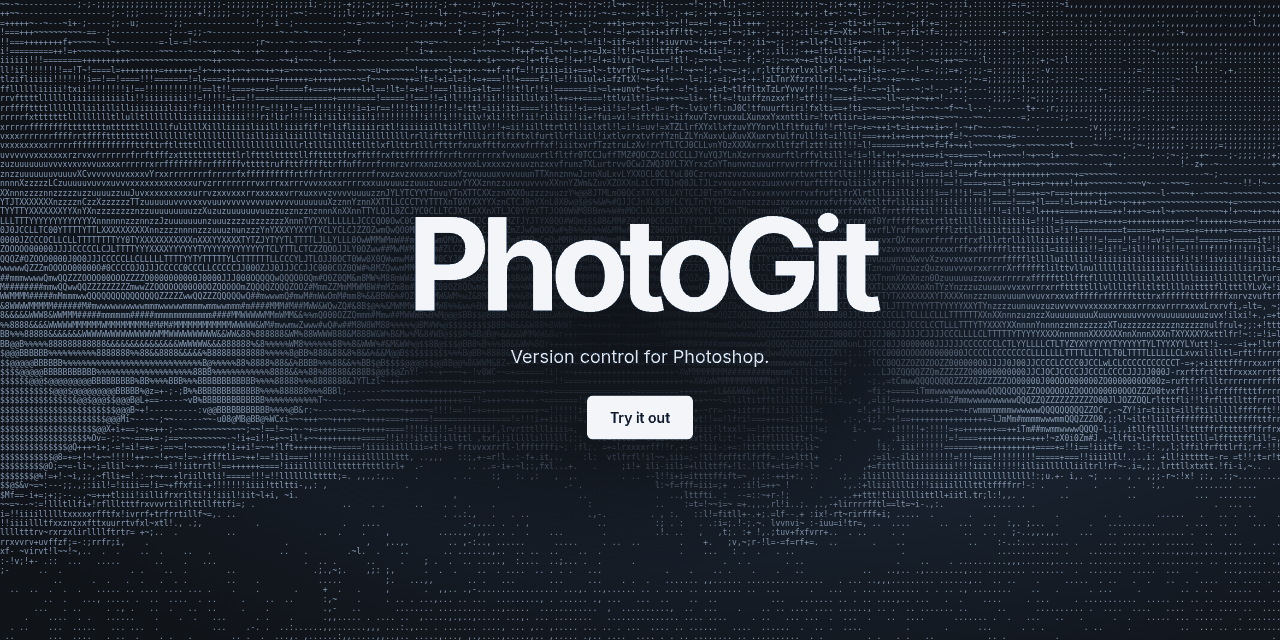
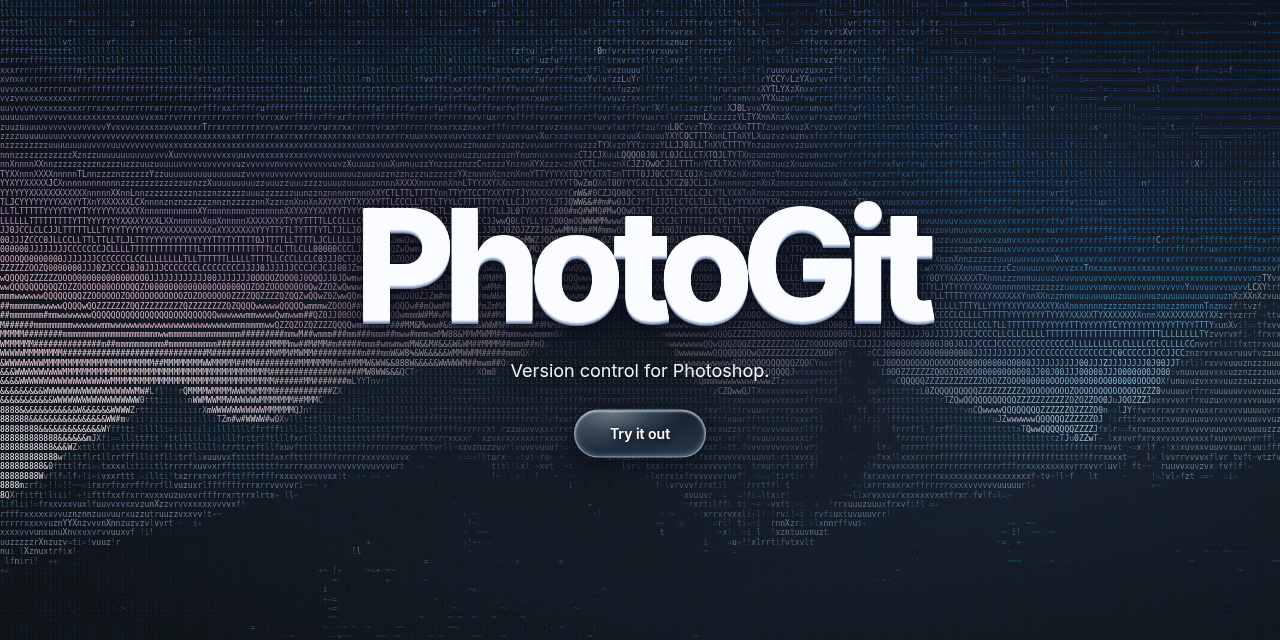
Bring color and 3D interactions to the ASCII landing page

diff --git a/site/ascii-background.js b/site/ascii-background.js
@@ -1,6 +1,34 @@
 (() => {
   const background = document.querySelector('.ascii-background');
   const toggle = document.querySelector('.ascii-toggle');
+  const wordmark = document.querySelector('.wordmark');
+  const tryLink = document.querySelector('.try-link');
+  const reducedMotion = matchMedia('(prefers-reduced-motion: reduce)');
+
+  const resetTilt = () => {
+    wordmark.style.removeProperty('--tilt-x');
+    wordmark.style.removeProperty('--tilt-y');
+  };
+  wordmark.addEventListener('pointermove', ({ clientX, clientY, pointerType }) => {
+    if (pointerType === 'touch' || reducedMotion.matches) return;
+    const { left, top, width, height } = wordmark.getBoundingClientRect();
+    const x = (clientX - left) / width - 0.5;
+    const y = (clientY - top) / height - 0.5;
+    wordmark.style.setProperty('--tilt-x', `${-y * 44}deg`);
+    wordmark.style.setProperty('--tilt-y', `${x * 60}deg`);
+  });
+  wordmark.addEventListener('pointerleave', resetTilt);
+  wordmark.addEventListener('pointercancel', resetTilt);
+  window.addEventListener('blur', resetTilt);
+  reducedMotion.addEventListener('change', resetTilt);
+
+  tryLink.addEventListener('pointermove', ({ clientX, clientY, pointerType }) => {
+    if (pointerType === 'touch' || reducedMotion.matches) return;
+    const { left, top } = tryLink.getBoundingClientRect();
+    tryLink.style.setProperty('--glint-x', `${clientX - left}px`);
+    tryLink.style.setProperty('--glint-y', `${clientY - top}px`);
+  });
+
   const layers = Array.from(background.querySelectorAll('.ascii-photo'), (canvas) => ({
     canvas,
     context: canvas.getContext('2d'),
@@ -13,7 +41,15 @@
 
   const sources = ['photos/lake.webp', 'photos/ocean.webp', 'photos/stars.webp', 'photos/desert.webp'];
   const glyphs = ' .,:;-~+=!iltfrxvuznXYTLCJ0OZQwm#MW&8%B@$';
-  const reducedMotion = matchMedia('(prefers-reduced-motion: reduce)');
+  // Quantize the sampled colors for a small palette shared by every frame.
+  const palette = Array.from({ length: 4096 }, (_, index) => {
+    const red = (index >> 8) * 17;
+    const green = ((index >> 4) & 15) * 17;
+    const blue = (index & 15) * 17;
+    // Lift dark colors so sparse glyphs still read against the dark background.
+    const lift = 0.76 + 66 / Math.max(32, red, green, blue);
+    return `rgb(${Math.round(red * lift)} ${Math.round(green * lift)} ${Math.round(blue * lift)})`;
+  });
   const trail = [];
   const trailLifetime = 620;
   let trailFrame = 0;
@@ -39,10 +75,10 @@
     const fontSize = width < 680 ? 7 : 8;
     context.font = `${fontSize}px ui-monospace, monospace`;
     context.textBaseline = 'middle';
-    context.fillStyle = '#a5bfdf';
 
     const cellHeight = fontSize * 1.18;
-    const columns = Math.ceil(width / context.measureText('M').width);
+    const cellWidth = context.measureText('M').width;
+    const columns = Math.ceil(width / cellWidth);
     const rows = Math.ceil(height / cellHeight);
     sampler.canvas.width = columns;
     sampler.canvas.height = rows;
@@ -55,13 +91,17 @@
     const pixels = sampler.getImageData(0, 0, columns, rows).data;
 
     for (let row = 0; row < rows; row++) {
-      let line = '';
       for (let column = 0; column < columns; column++) {
-        // The bundled photos are grayscale, so any one color channel gives the brightness.
-        const brightness = pixels[(row * columns + column) * 4] / 255;
-        line += glyphs[Math.round(brightness ** 1.25 * (glyphs.length - 1))];
+        const offset = (row * columns + column) * 4;
+        const red = pixels[offset];
+        const green = pixels[offset + 1];
+        const blue = pixels[offset + 2];
+        const luminance = (0.2126 * red + 0.7152 * green + 0.0722 * blue) / 255;
+        const glyph = glyphs[Math.round(luminance ** 0.9 * (glyphs.length - 1))];
+        if (glyph === ' ') continue;
+        context.fillStyle = palette[((red >> 4) << 8) | ((green >> 4) << 4) | (blue >> 4)];
+        context.fillText(glyph, column * cellWidth, (row + 0.5) * cellHeight);
       }
-      context.fillText(line, 0, (row + 0.5) * cellHeight);
     }
   }
 

diff --git a/site/studio.css b/site/studio.css
@@ -26,11 +26,11 @@ body { margin: 0; isolation: isolate; }
 
 .ascii-background::after {
   content: "";
-  background: radial-gradient(ellipse min(430px, 90vw) 245px at center, #101318f2, #101318ba 54%, transparent);
+  background: radial-gradient(ellipse min(470px, 92vw) 270px at center, #1013189e, #10131866 55%, transparent);
 }
 
 .ascii-photo { opacity: 0; transition: opacity 1.5s ease-in-out; }
-.ascii-photo.is-current { opacity: .78; }
+.ascii-photo.is-current { opacity: .96; }
 .ascii-trail { mix-blend-mode: screen; }
 
 .preview {
@@ -42,36 +42,78 @@ body { margin: 0; isolation: isolate; }
   text-align: center;
 }
 
-.preview h1 {
-  margin: 0;
-  font-size: clamp(58px, 10vw, 128px);
-  font-weight: 740;
-  line-height: 1;
-  letter-spacing: -.075em;
+.wordmark {
+  perspective: 760px;
 }
 
+.wordmark h1 {
+  margin: 0;
+  padding: .07em .12em .1em;
+  font-size: clamp(54px, 12vw, 158px);
+  font-weight: 780;
+  line-height: .92;
+  letter-spacing: -.075em;
+  color: #fbfcff;
+  text-shadow: 0 1px #e2e9fa, 0 2px #b8c5df, 0 3px #95a6c6,
+    0 4px #6e80a0, 0 6px 10px #0a111d, 0 14px 38px #020611b3;
+  transform: rotateX(var(--tilt-x, 0deg)) rotateY(var(--tilt-y, 0deg));
+  transition: transform .45s cubic-bezier(.2, .8, .2, 1);
+}
+
+.wordmark:hover h1 { transition-duration: .14s; }
+
 .preview p {
-  margin: 17px 0 28px;
-  color: #ced4dd;
+  margin: 10px 0 28px;
+  color: #f0f4fb;
   font-size: clamp(15px, 2vw, 18px);
+  text-shadow: 0 1px 8px #000, 0 2px 20px #000;
 }
 
 .try-link {
+  position: relative;
+  isolation: isolate;
   display: inline-flex;
   align-items: center;
   justify-content: center;
-  min-height: 44px;
-  padding: 10px 22px;
-  border: 1px solid transparent;
-  border-radius: 6px;
-  background: #e9edf3;
-  color: #111923;
+  min-width: 132px;
+  min-height: 48px;
+  padding: 10px 24px;
+  overflow: hidden;
+  border: 1px solid rgb(228 244 255 / 56%);
+  border-radius: 999px;
+  background: linear-gradient(155deg, #edf9ff38, #b6d0ec0d 54%, #b6eaff29), rgb(16 24 38 / 66%);
+  -webkit-backdrop-filter: blur(5px) saturate(175%);
+  backdrop-filter: blur(5px) saturate(175%);
+  box-shadow: inset 0 1px 2px #f3f9ffbf, inset 0 -2px 5px #abd7ff52,
+    0 5px 22px #0206108c;
+  color: #fff;
   font-size: 14px;
   font-weight: 650;
+  text-shadow: 0 1px 5px #000;
   text-decoration: none;
+  transition: border-color .2s ease, box-shadow .2s ease;
 }
 
-.try-link:hover { background: #fff; }
+.try-link::before {
+  position: absolute;
+  z-index: -1;
+  inset: 0;
+  background: radial-gradient(70px 45px at var(--glint-x, 30%) var(--glint-y, 0%),
+    #f0faff7d, #a6d4ff2e 50%, transparent);
+  content: "";
+  opacity: .62;
+  transition: opacity .2s ease;
+}
+
+.try-link:hover,
+.try-link:focus-visible {
+  border-color: #eefaffdb;
+  box-shadow: inset 0 1px 3px #f3f9ffeb, inset 0 -2px 6px #abd7ff80,
+    0 5px 25px #a8d8ff38;
+}
+
+.try-link:hover::before,
+.try-link:focus-visible::before { opacity: 1; }
 
 .try-link:focus-visible,
 .ascii-toggle:focus-visible {
@@ -97,5 +139,11 @@ body { margin: 0; isolation: isolate; }
 .ascii-toggle:hover { background: #202936; }
 
 @media (prefers-reduced-motion: reduce) {
-  .ascii-photo { transition: none; }
+  .ascii-photo,
+  .wordmark h1,
+  .wordmark:hover h1,
+  .try-link,
+  .try-link::before { transition: none; }
+
+  .wordmark h1 { transform: none; }
 }

diff --git a/site/index.html b/site/index.html
@@ -14,7 +14,7 @@
   <meta property="og:image" content="https://photogit-three.vercel.app/og.png">
   <meta property="og:image:width" content="1280">
   <meta property="og:image:height" content="640">
-  <meta property="og:image:alt" content="PhotoGit over a mountain landscape rendered in ASCII">
+    <meta property="og:image:alt" content="PhotoGit over a night sky and mountains rendered in color ASCII">
   <meta name="twitter:card" content="summary_large_image">
   <link rel="stylesheet" href="studio.css">
   <script src="ascii-background.js" defer></script>
@@ -27,7 +27,7 @@
   </div>
   <main class="preview" aria-labelledby="title">
     <div>
-      <h1 id="title">PhotoGit</h1>
+        <div class="wordmark"><h1 id="title">PhotoGit</h1></div>
       <p>Version control for Photoshop.</p>
       <a class="try-link" href="https://github.com/xingexu/photogit">Try it out</a>
     </div>

diff --git a/site/README.md b/site/README.md
@@ -2,7 +2,7 @@
 
 Serve this directory with `python3 -m http.server 3000 --directory site` from the repository root.
 
-The site previews four real photographs drawn as ASCII over the full viewport. The photos are shuffled on load and crossfade every eight seconds. Moving a mouse or pen lights up characters along its path. Use the pause control in the lower-right corner to stop the rotation and trail. Reduced-motion settings show a still image without a trail.
+The site previews four real nature photographs drawn as full-screen color ASCII. The photos are shuffled on load and crossfade every eight seconds. Moving a mouse or pen lights up characters along its path and tilts the PhotoGit title on hover. Use the pause control in the lower-right corner to stop the rotation and trail. Reduced-motion settings show a still image and keep the title steady.
 
 Background photo sources ([Unsplash License](https://unsplash.com/license)):
 
